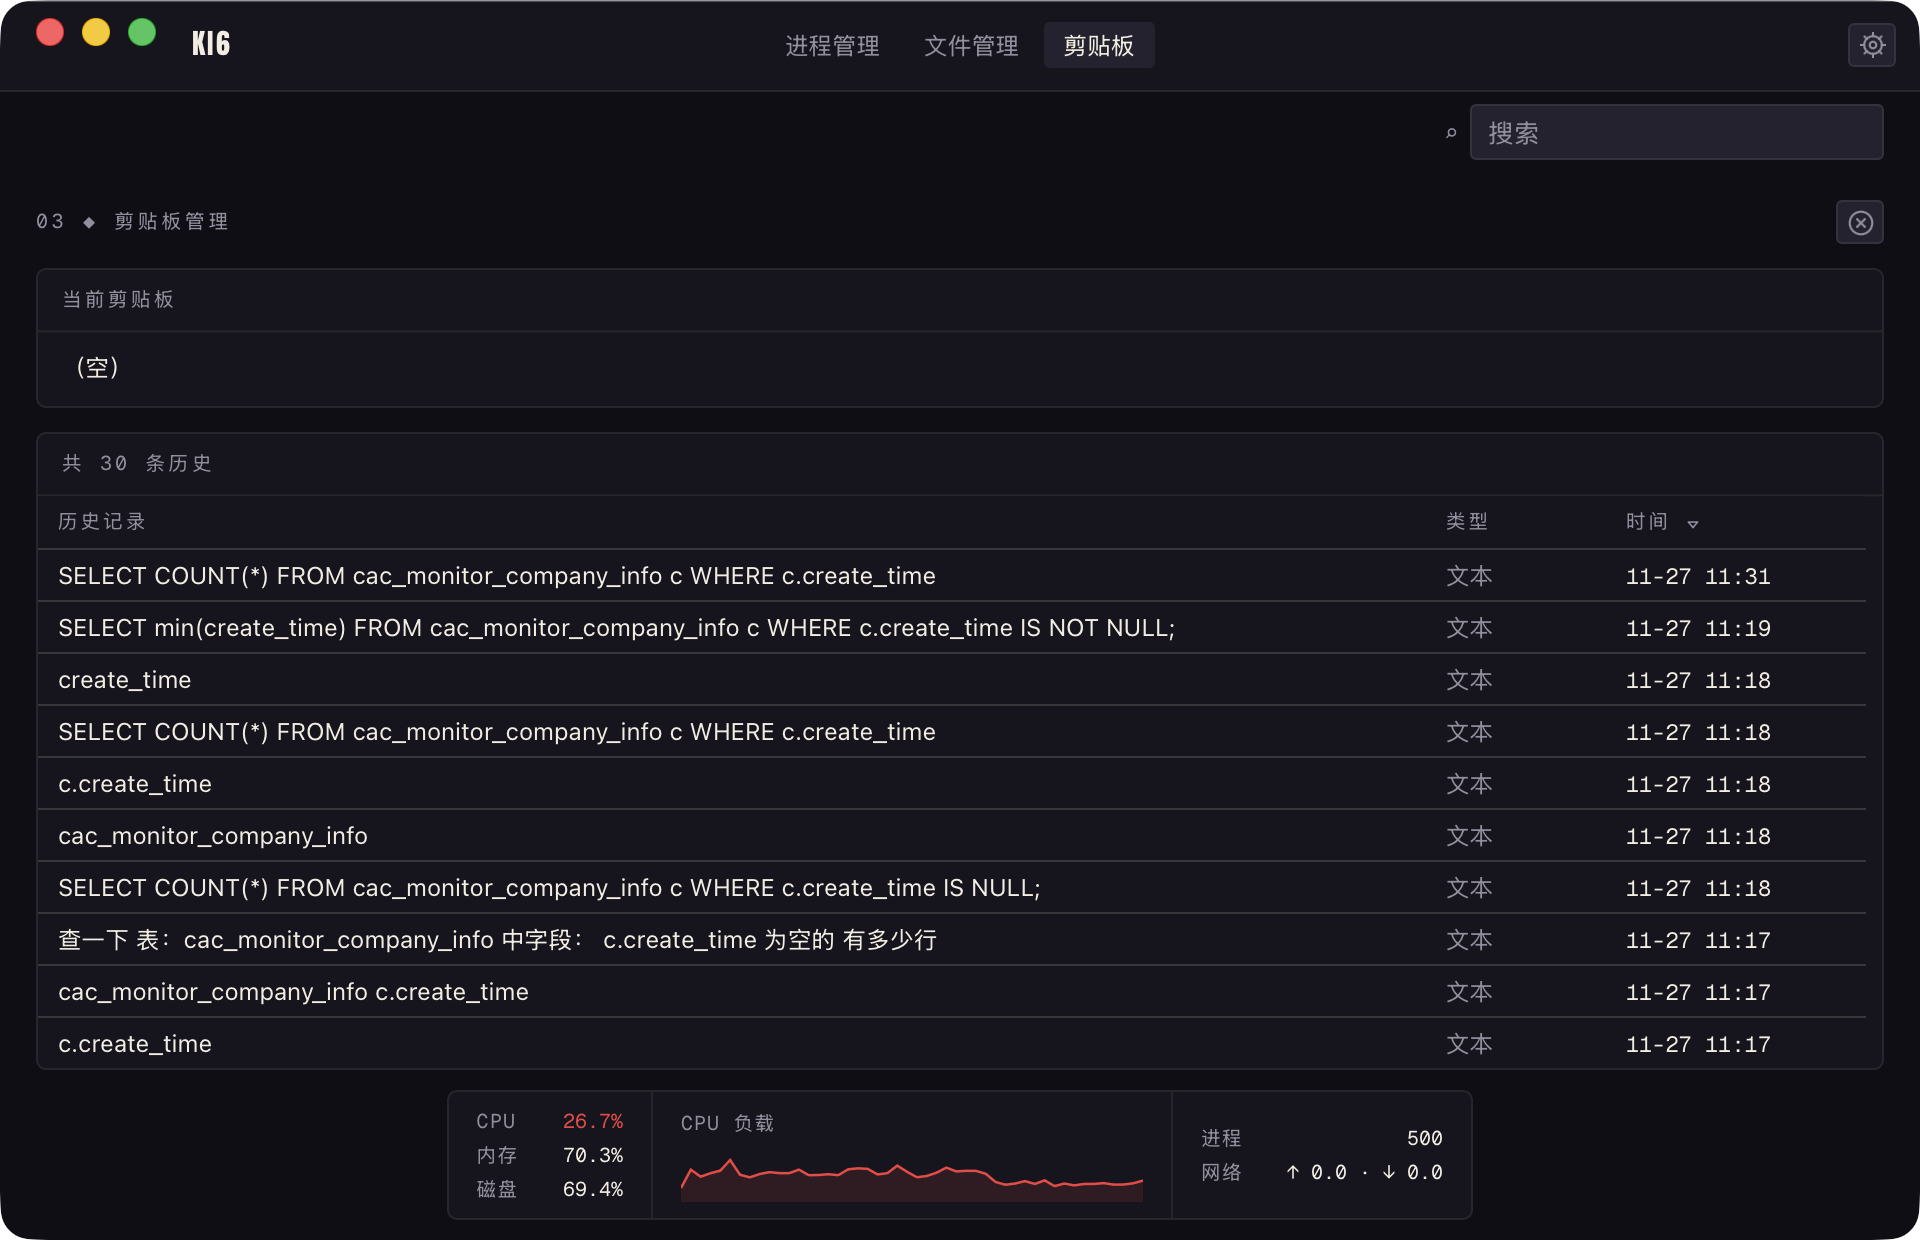
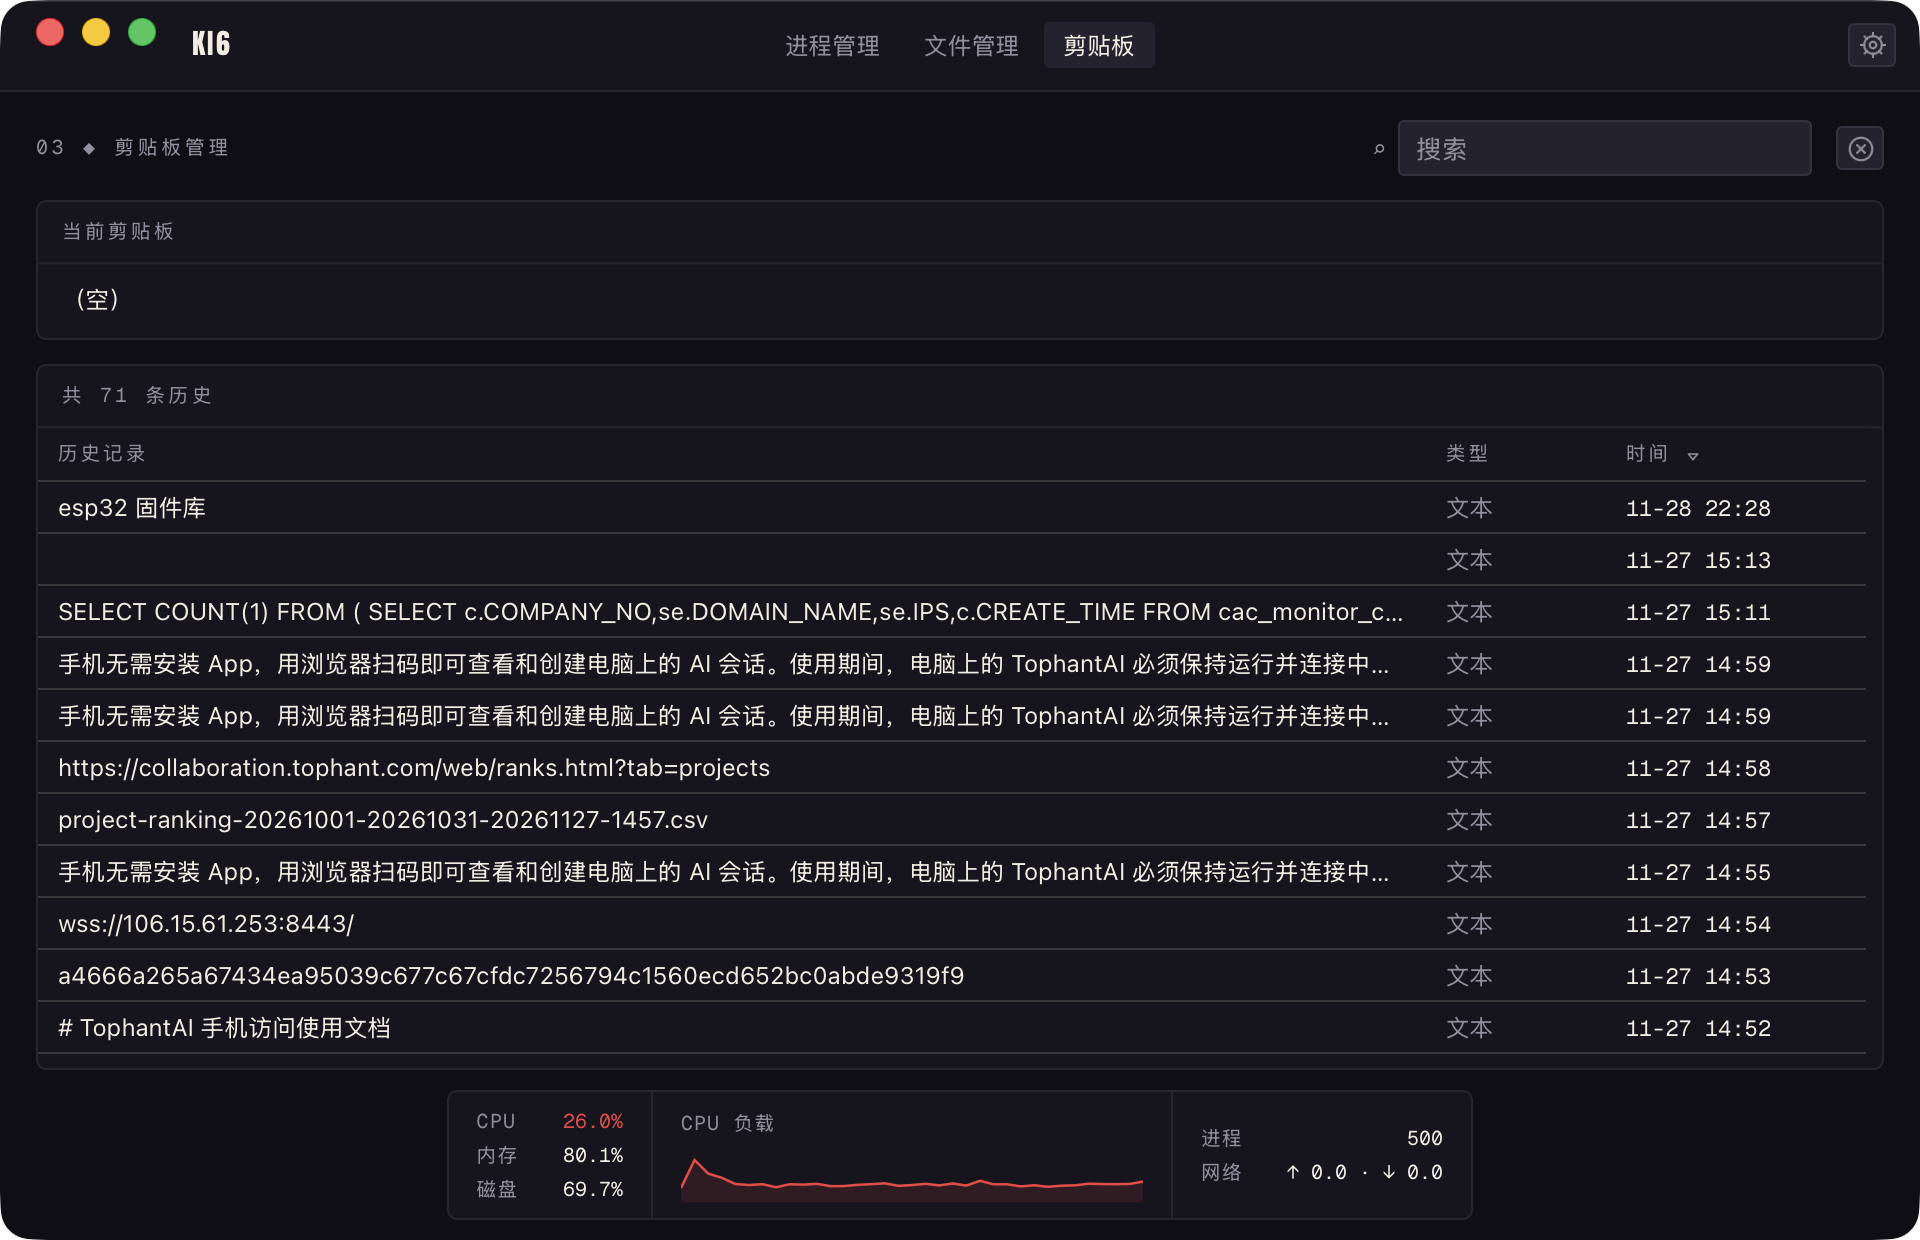
refactor: 搜索框从独立一行收进页头右侧
搜索框原来独占工具栏下面一整行，把表格整体往下挤了一截，
而它和该页的操作按钮（刷新 / 打开文件夹 / 新建 / 返回上级…）
本来就是同一层语义。现在把它挪到页头行，紧挨操作按钮左侧，
三个列表页各腾回约 40px 的纵向空间。

- 新增 app/PageSearch.tsx：绑定全局 search 状态的搜索框，
  由各页在页头里自行放置；设置页没有列表可筛，页头不渲染它
  （原先靠 AppShell 判断 settingsOpen 才隐藏，现在天然不出现）
- 删除 app/SearchBar.tsx 与 .searchbar 样式
- 新增 .page__head-actions 容器：搜索框 + 操作按钮同一行
- README 三张列表页截图重拍（设置页布局未变，保持原图）

实测：搜索框在三页的页头行均已就位；文件页输入 dev 后
正确过滤为 dev / development / devspace，清空后恢复全量。

AI-Coding: true
AI-Tool: TophantAI

diff --git a/frontend/src/pages/Files.tsx b/frontend/src/pages/Files.tsx
@@ -1,6 +1,7 @@
 import { useCallback, useDeferredValue, useEffect, useMemo, useState } from 'react';
 
 import { Card, DataTable, Icon, Kicker, Modal, type Column } from '../components';
+import { PageSearch } from '../app/PageSearch';
 import { EVENT, api, onEvent } from '../lib/bridge';
 import { useI18n } from '../lib/i18n';
 import { nextSort, type SortState } from '../lib/sort';
@@ -219,57 +220,60 @@ export function Files() {
     <div className="page">
       <div className="page__head">
         <Kicker index="02">{t('file.title')}</Kicker>
-        <div className="page__tools">
-          <button
-            type="button"
-            className="native-button native-button--icon"
-            title={t('file.openFolder')}
-            aria-label={t('file.openFolder')}
-            onClick={async () => {
-              const picked = await api.pickDirectory();
-              if (!picked) {
-                return;
-              }
-              setCwd(picked);
-              await load(picked);
-              await api.watchDir(picked);
-            }}
-          >
-            <Icon name="folder" />
-          </button>
-          <button
-            type="button"
-            className="native-button native-button--icon"
-            title={t('common.back')}
-            aria-label={t('common.back')}
-            onClick={() => void goUp()}
-          >
-            <Icon name="arrow-up" />
-          </button>
-          <button
-            type="button"
-            className="native-button native-button--icon"
-            title={t('file.newFile')}
-            aria-label={t('file.newFile')}
-            onClick={() => {
-              setCreating('file');
-              setCreateValue('');
-            }}
-          >
-            <Icon name="file-plus" />
-          </button>
-          <button
-            type="button"
-            className="native-button native-button--icon"
-            title={t('file.newFolder')}
-            aria-label={t('file.newFolder')}
-            onClick={() => {
-              setCreating('folder');
-              setCreateValue('');
-            }}
-          >
-            <Icon name="folder-plus" />
-          </button>
+        <div className="page__head-actions">
+          <PageSearch />
+          <div className="page__tools">
+            <button
+              type="button"
+              className="native-button native-button--icon"
+              title={t('file.openFolder')}
+              aria-label={t('file.openFolder')}
+              onClick={async () => {
+                const picked = await api.pickDirectory();
+                if (!picked) {
+                  return;
+                }
+                setCwd(picked);
+                await load(picked);
+                await api.watchDir(picked);
+              }}
+            >
+              <Icon name="folder" />
+            </button>
+            <button
+              type="button"
+              className="native-button native-button--icon"
+              title={t('common.back')}
+              aria-label={t('common.back')}
+              onClick={() => void goUp()}
+            >
+              <Icon name="arrow-up" />
+            </button>
+            <button
+              type="button"
+              className="native-button native-button--icon"
+              title={t('file.newFile')}
+              aria-label={t('file.newFile')}
+              onClick={() => {
+                setCreating('file');
+                setCreateValue('');
+              }}
+            >
+              <Icon name="file-plus" />
+            </button>
+            <button
+              type="button"
+              className="native-button native-button--icon"
+              title={t('file.newFolder')}
+              aria-label={t('file.newFolder')}
+              onClick={() => {
+                setCreating('folder');
+                setCreateValue('');
+              }}
+            >
+              <Icon name="folder-plus" />
+            </button>
+          </div>
         </div>
       </div>
 

diff --git a/frontend/src/pages/Clipboard.tsx b/frontend/src/pages/Clipboard.tsx
@@ -1,6 +1,7 @@
 import { useCallback, useDeferredValue, useEffect, useMemo, useState } from 'react';
 
 import { Card, DataTable, Icon, Kicker, type Column } from '../components';
+import { PageSearch } from '../app/PageSearch';
 import { EVENT, api, onEvent } from '../lib/bridge';
 import { useI18n } from '../lib/i18n';
 import { nextSort, type SortState } from '../lib/sort';
@@ -94,23 +95,26 @@ export function Clipboard() {
     <div className="page">
       <div className="page__head">
         <Kicker index="03">{t('clipboard.title')}</Kicker>
-        <div className="page__tools">
-          <button
-            type="button"
-            className="native-button native-button--icon"
-            title={t('clipboard.clearHistory')}
-            aria-label={t('clipboard.clearHistory')}
-            onClick={async () => {
-              try {
-                await api.clearHistory();
-                await reload();
-              } catch (error) {
-                pushToast('error', String(error));
-              }
-            }}
-          >
-            <Icon name="x-circle" />
-          </button>
+        <div className="page__head-actions">
+          <PageSearch />
+          <div className="page__tools">
+            <button
+              type="button"
+              className="native-button native-button--icon"
+              title={t('clipboard.clearHistory')}
+              aria-label={t('clipboard.clearHistory')}
+              onClick={async () => {
+                try {
+                  await api.clearHistory();
+                  await reload();
+                } catch (error) {
+                  pushToast('error', String(error));
+                }
+              }}
+            >
+              <Icon name="x-circle" />
+            </button>
+          </div>
         </div>
       </div>
 

diff --git a/frontend/src/pages/Processes.tsx b/frontend/src/pages/Processes.tsx
@@ -10,6 +10,7 @@ import {
 } from 'react';
 
 import { Card, Icon, Kicker, Modal, SortButton, VirtualList } from '../components';
+import { PageSearch } from '../app/PageSearch';
 import { EVENT, api, onEvent } from '../lib/bridge';
 import { useI18n } from '../lib/i18n';
 import { nextSort, type SortState } from '../lib/sort';
@@ -172,16 +173,19 @@ export function Processes() {
     <div className="page">
       <div className="page__head">
         <Kicker index="01">{t('process.title')}</Kicker>
-        <div className="page__tools">
-          <button
-            type="button"
-            className="native-button native-button--icon"
-            title={t('process.refresh')}
-            aria-label={t('process.refresh')}
-            onClick={() => void onRefresh()}
-          >
-            <Icon name="refresh" />
-          </button>
+        <div className="page__head-actions">
+          <PageSearch />
+          <div className="page__tools">
+            <button
+              type="button"
+              className="native-button native-button--icon"
+              title={t('process.refresh')}
+              aria-label={t('process.refresh')}
+              onClick={() => void onRefresh()}
+            >
+              <Icon name="refresh" />
+            </button>
+          </div>
         </div>
       </div>
 

diff --git a/frontend/src/app/PageSearch.tsx b/frontend/src/app/PageSearch.tsx
@@ -1,0 +1,25 @@
+import { SearchField } from '../components';
+import { useI18n } from '../lib/i18n';
+import { useAppStore } from '../lib/store';
+
+/**
+ * 搜索框：贴在**页头右侧**，与该页的操作按钮同一行。
+ *
+ * 之前它独占工具栏下面一整行，把表格往下挤了一截；收进页头后，
+ * 搜索与「翻页 / 新建」这类操作同属一层，视线不用在两行之间来回跳。
+ *
+ * 搜索词是外壳级的共享状态（见 `store.ts` 的 `search`），切页清空。
+ * 设置视图没有列表可筛，页头里不渲染这一项。
+ */
+export function PageSearch() {
+  const { t } = useI18n();
+  const [state, setState] = useAppStore();
+
+  return (
+    <SearchField
+      value={state.search}
+      onChange={(value) => setState({ search: value })}
+      placeholder={t('common.search')}
+    />
+  );
+}

diff --git a/frontend/src/app/AppShell.tsx b/frontend/src/app/AppShell.tsx
@@ -5,7 +5,6 @@ import { applyTheme } from '../lib/theme';
 import { pushToast, setState, useAppStore } from '../lib/store';
 import type { TabId } from '../lib/types';
 import { BottomBar } from './BottomBar';
-import { SearchBar } from './SearchBar';
 import { Toast } from './Toast';
 import { Toolbar } from './Toolbar';
 import { Clipboard } from '../pages/Clipboard';
@@ -95,7 +94,6 @@ export function AppShell() {
   return (
     <div className="app-shell">
       <Toolbar />
-      {state.settingsOpen ? null : <SearchBar />}
       <main className="app-shell__content">
         {state.settingsOpen ? <Settings /> : <Page />}
       </main>

diff --git a/frontend/src/styles/base.css b/frontend/src/styles/base.css
@@ -326,15 +326,6 @@ figure {
 }
 
 /* 搜索条：工具栏下面独占一行 */
-.searchbar {
-  flex: 0 0 auto;
-  display: flex;
-  align-items: center;
-  justify-content: flex-end;
-  padding: 6px 18px;
-  background: var(--bg);
-}
-
 .tabstrip__slot {
   display: inline-flex;
   align-items: center;
@@ -474,6 +465,13 @@ figure {
   display: flex;
   align-items: center;
   gap: 10px;
+}
+
+/* 页头右侧：搜索框 + 该页的操作按钮 */
+.page__head-actions {
+  display: flex;
+  align-items: center;
+  gap: 12px;
 }
 
 .page__tools {
